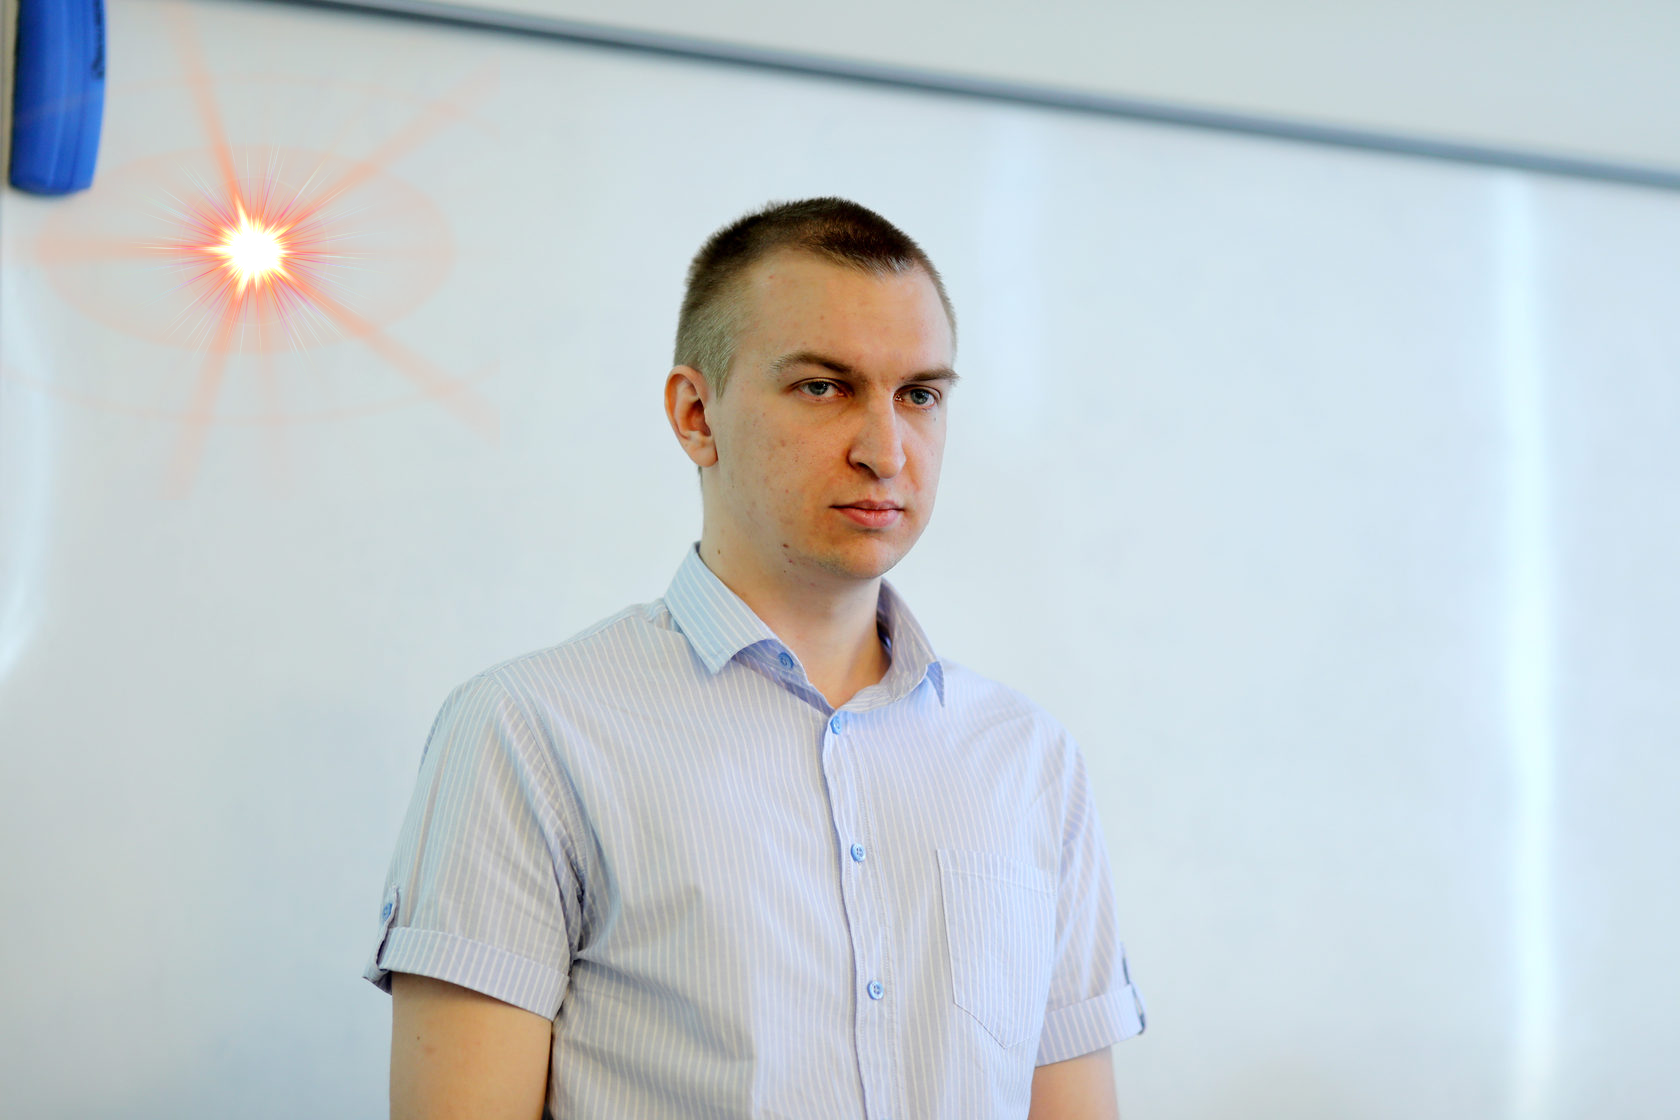
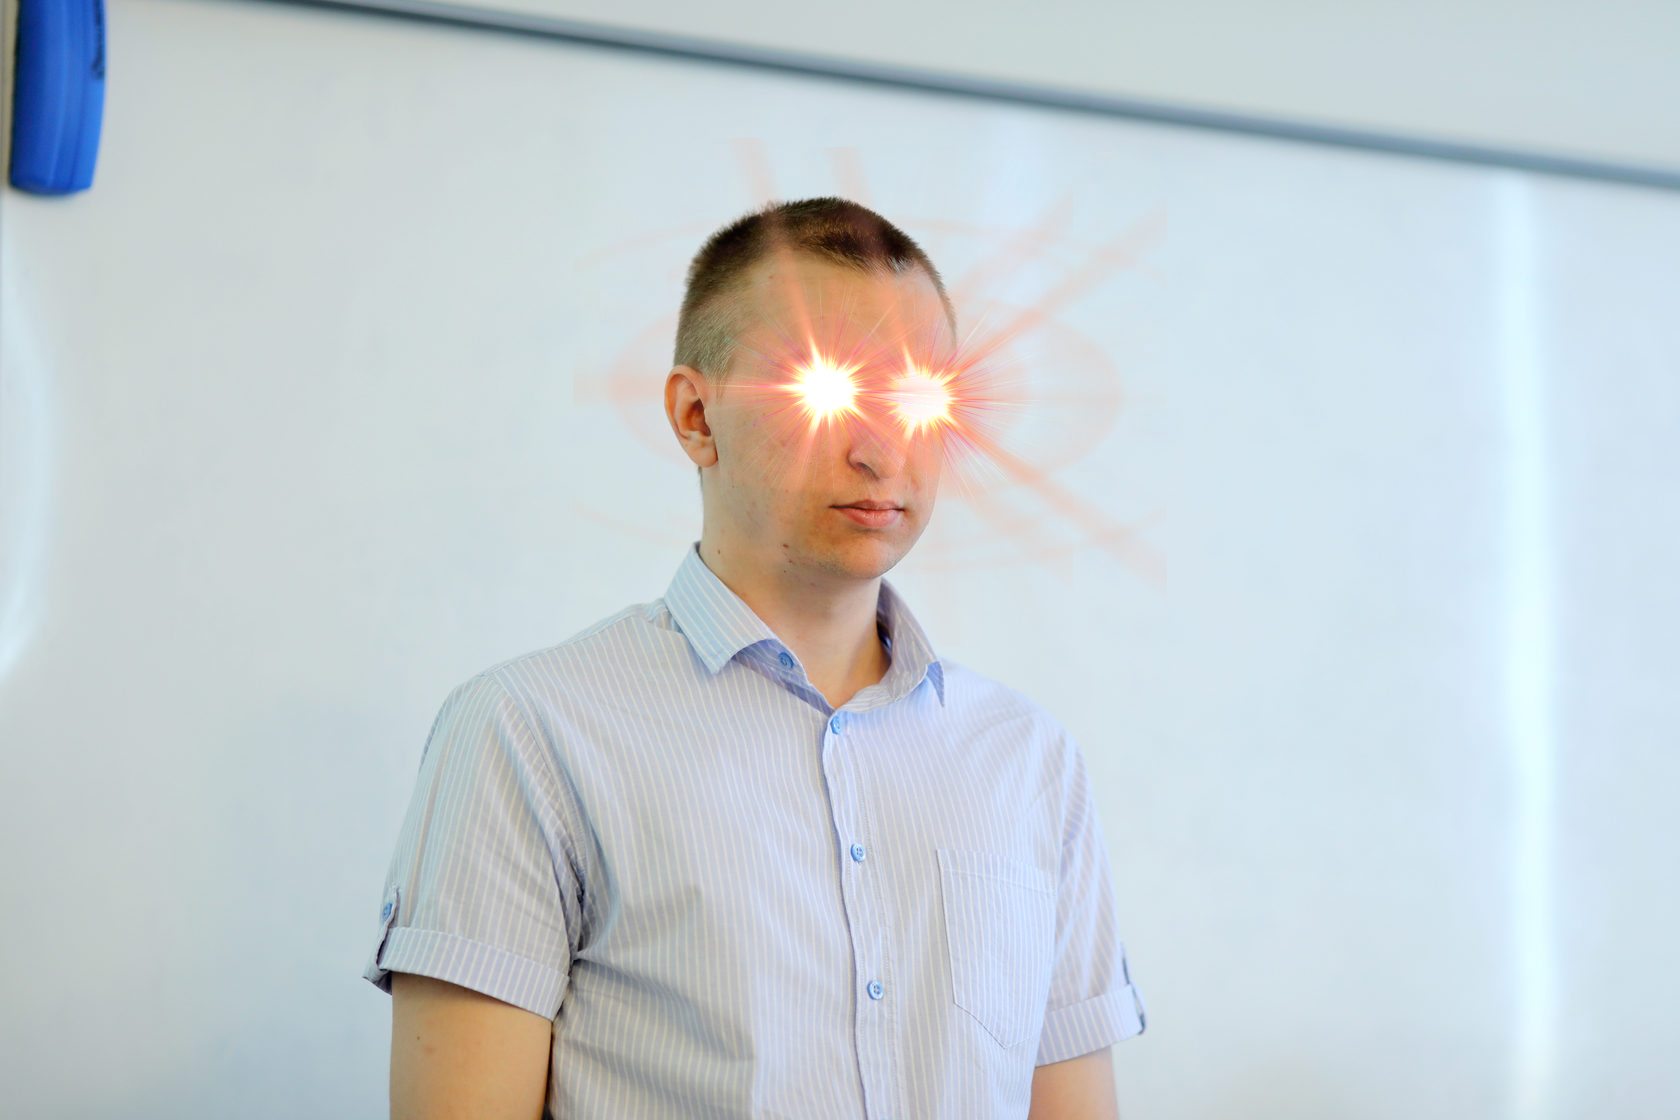
added conversion script

diff --git a/image_converter.py b/image_converter.py
@@ -1,0 +1,52 @@
+import cv2
+import numpy as np
+from matplotlib import pyplot as plt
+from PIL import Image
+
+input_path = "face.jpg"
+output_path = "khalanskiy.png"
+eyeglow_path = "eye_1.png"
+
+pil_eyeglow = Image.open(eyeglow_path)
+
+# https://github.com/Itseez/opencv/blob/master/data/haarcascades/haarcascade_frontalface_default.xml
+face_cascade = cv2.CascadeClassifier('haarcascade_frontalface_default.xml')
+# https://github.com/Itseez/opencv/blob/master/data/haarcascades/haarcascade_eye.xml
+eye_cascade = cv2.CascadeClassifier('haarcascade_eye.xml')
+
+def opencv_to_pil(img):
+    # move PIL -> OpenCV
+    img = cv2.cvtColor(img, cv2.COLOR_BGR2RGB)
+    im_pil = Image.fromarray(img)
+    return im_pil
+
+def pil_to_opencv(im_pil):
+    return np.asarray(im_pil)
+
+def add_glow(im_pil):
+    img = pil_to_opencv(im_pil)
+    gray = cv2.cvtColor(img, cv2.COLOR_BGR2GRAY)
+    faces = face_cascade.detectMultiScale(gray, 1.2, 3)
+
+    for (x, y, w, h) in faces:
+        cv2.rectangle(img, (x, y), (x + w, y + h), (255, 0, 0), 2)
+        roi_gray = gray[y:y + h, x:x + w]
+
+        eyes = eye_cascade.detectMultiScale(roi_gray)
+        for (ex, ey, ew, eh) in eyes:
+            # info about conversions:
+            # https://stackoverflow.com/questions/43232813/convert-opencv-image-format-to-pil-image-format/48602446
+            # paste red eyes
+            eg_w, eg_h = pil_eyeglow.size
+            dim = (x + ex + int((ew - eg_w) / 2), y + ey + int((eh - eg_h) / 2))
+            im_pil.paste(pil_eyeglow, dim, pil_eyeglow)
+
+def main():
+    original = Image.open(input_path)
+    #find and substitude all eyes
+    add_glow(original)
+    original.save(output_path)
+
+
+if __name__ == "__main__":
+    main()
